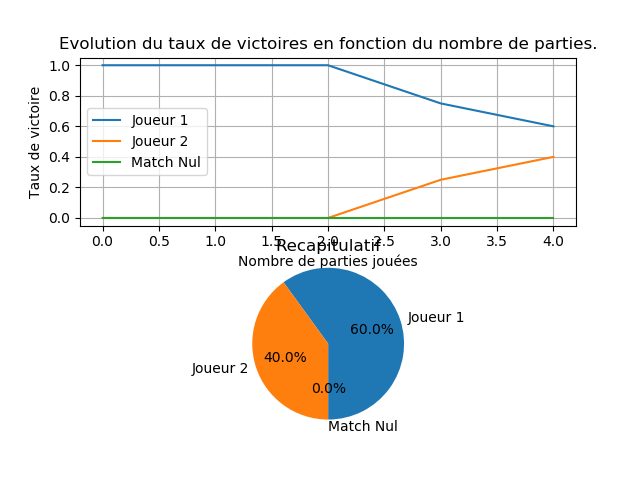
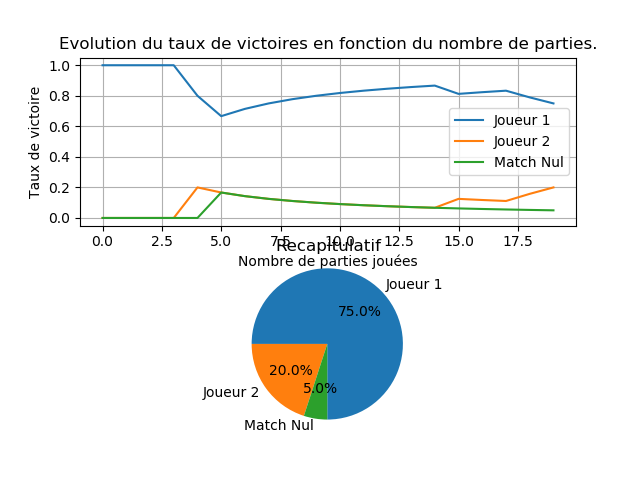
Troll new mechanic
si p1 > p2 + 2, troll += 2

diff --git a/troll.py b/troll.py
@@ -175,7 +175,10 @@ class Partie():
 				self.stockGauche -= nombreGauche
 				self.stockDroite -= nombreDroite
 				if(nombreGauche > nombreDroite):
-					self.positionTroll += 1
+					if(nombreGauche > (nombreDroite + 2)):
+						self.positionTroll += 2
+					else:
+						self.positionTroll += 1
 				elif(nombreGauche < nombreDroite):
 					self.positionTroll -= 1
 
@@ -543,4 +546,3 @@ class CoupInvalideSimultane(Exception):
 
 	def __init__(self, message = "Coups invalides simultanés"):
 		Exception.__init__(self, message)
-
